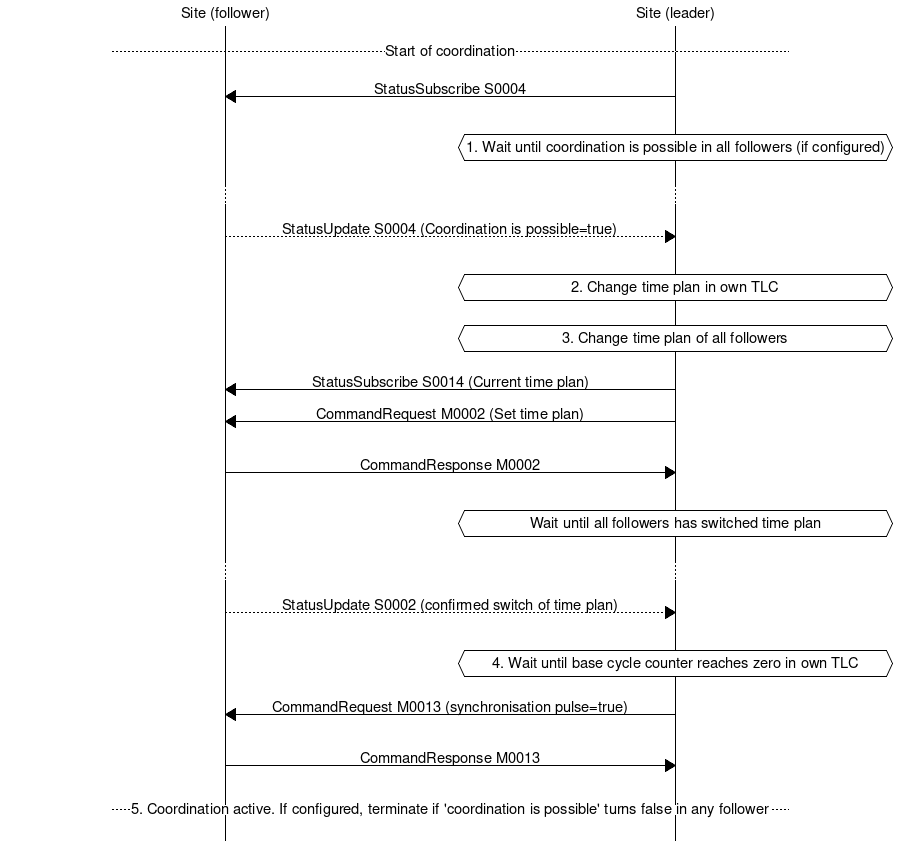
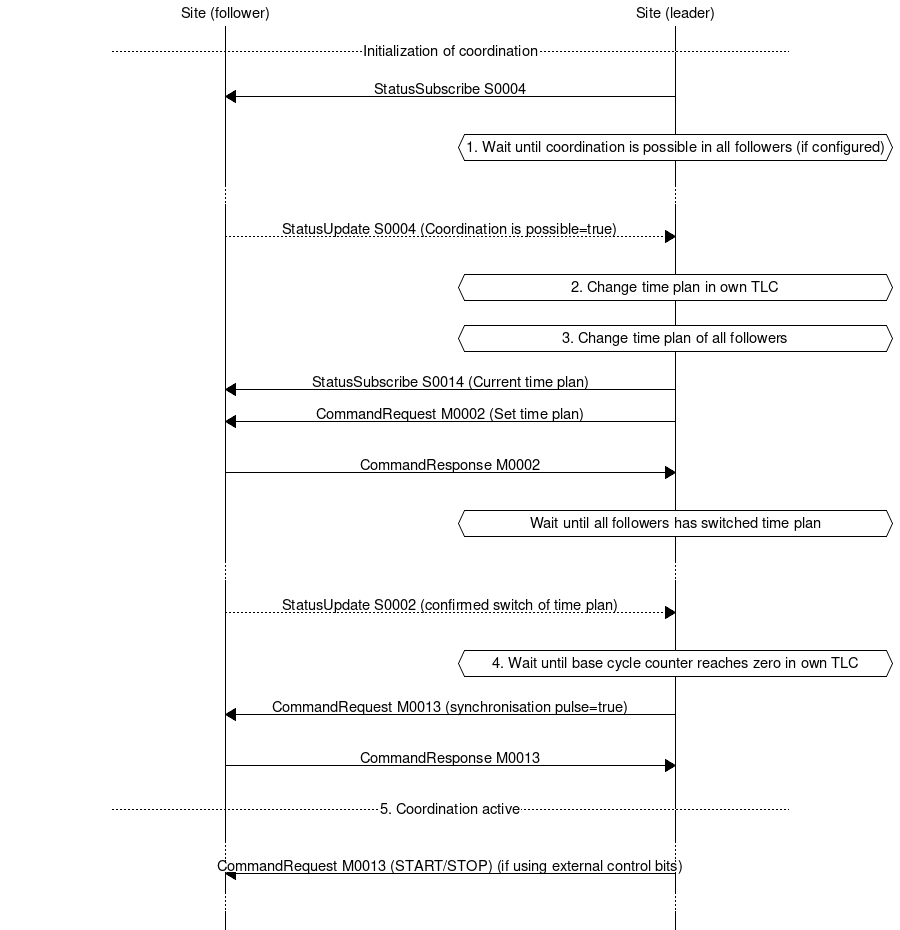
coordination: Add START/STOP in figures

diff --git a/appendix_coordination.md b/appendix_coordination.md
@@ -217,9 +217,9 @@ Initialization sequence for local coordination
    S0004 _Synchronisation step_ in all followers to verify this.
 5. Leader activates input (S0013) _coordination can continue_
    in all followers about continued coordination.
-6. Leader continuously checks that local coordination is still
-   possible through subscription on output (S0004) _coordination is
-   possible_ in all followers (see step 1). If not all
+6. Coordination active. Leader continuously checks that local
+   coordination is still possible through subscription on output (S0004)
+   _coordination is possible_ in all followers (see step 1). If not all
    followers are indicating this, coordination is terminated.
 
 ![Figure 3: Sequence at local coordination](appendix_coordination_img/local_coordination.png)
@@ -243,7 +243,7 @@ Initialization sequence for coordination with synchronized cycle counter
    START/STOP order using M0006 or M0013 to followers during the cycle.
    Leader continuously checks that coordination is possible in all
    followers (see step 1) through subscription on output (S0004)
-   _Coordination is possible_. Coordination is terminated if it turns false
+   _coordination is possible_. Coordination is terminated if it turns false
    is any follower.
 
 ![Figure 4: Sequence at coordination with synchronized cycle timer](appendix_coordination_img/central_coordination.png)
